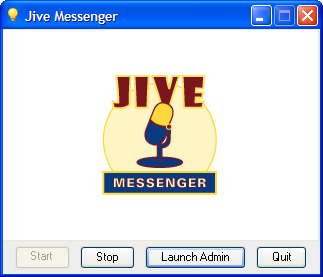
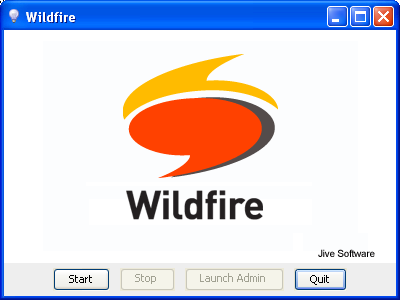
Updated screenshots with new name.
git-svn-id: http://svn.igniterealtime.org/svn/repos/messenger/trunk@3224 b35dd754-fafc-0310-a699-88a17e54d16e

Changed region(s): [[0.0, 0.0, 1.0, 1.0], [0.3096, 0.1733, 0.7121, 0.7509]]

diff --git a/documentation/docs/install-guide.html b/documentation/docs/install-guide.html
@@ -124,7 +124,7 @@ setting up the server:
 
 <p>
 <div align="center">
-<img src="images/launcher.png" alt="Wildfire Launcher" width="323" height="277" align="center">
+<img src="images/launcher.png" alt="Wildfire Launcher" width="400" height="300" align="center">
 </div>
 </p>
 
